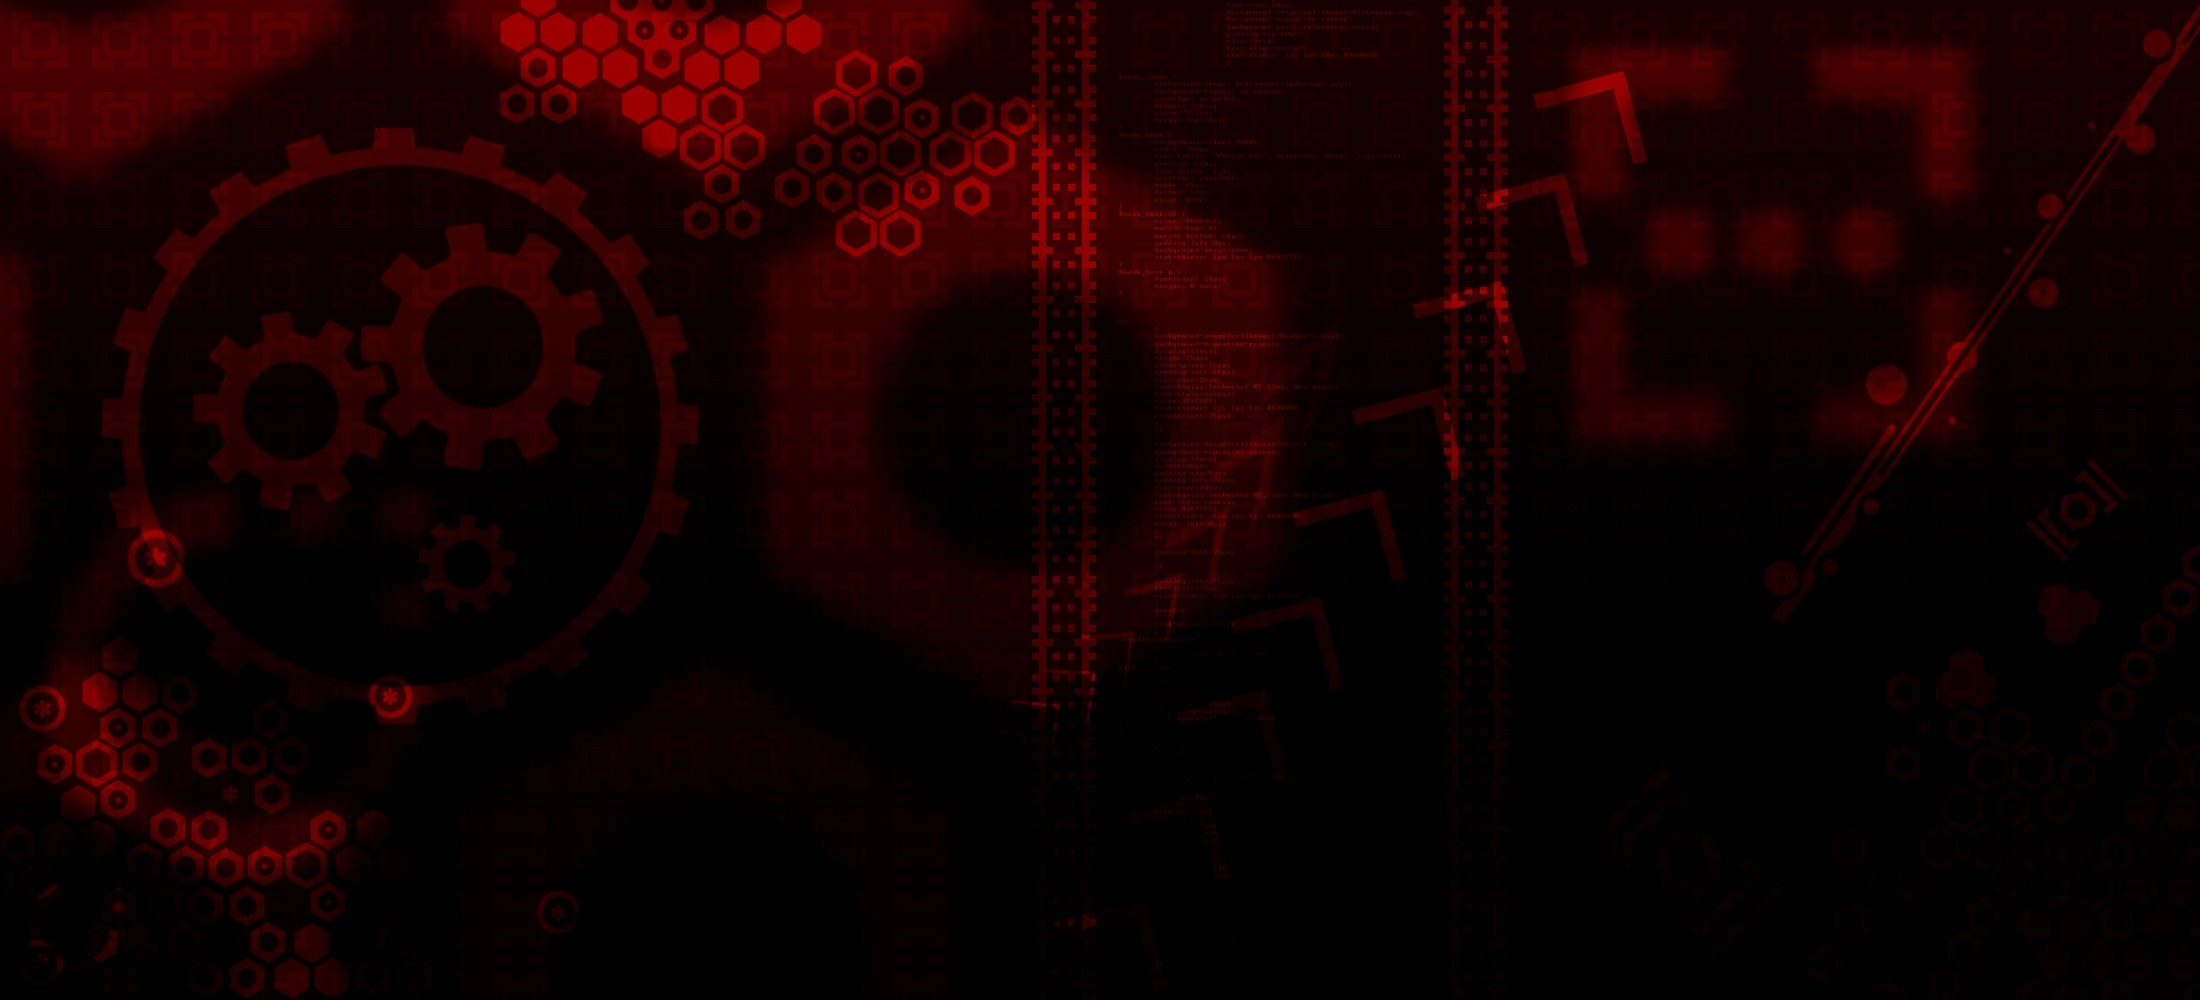
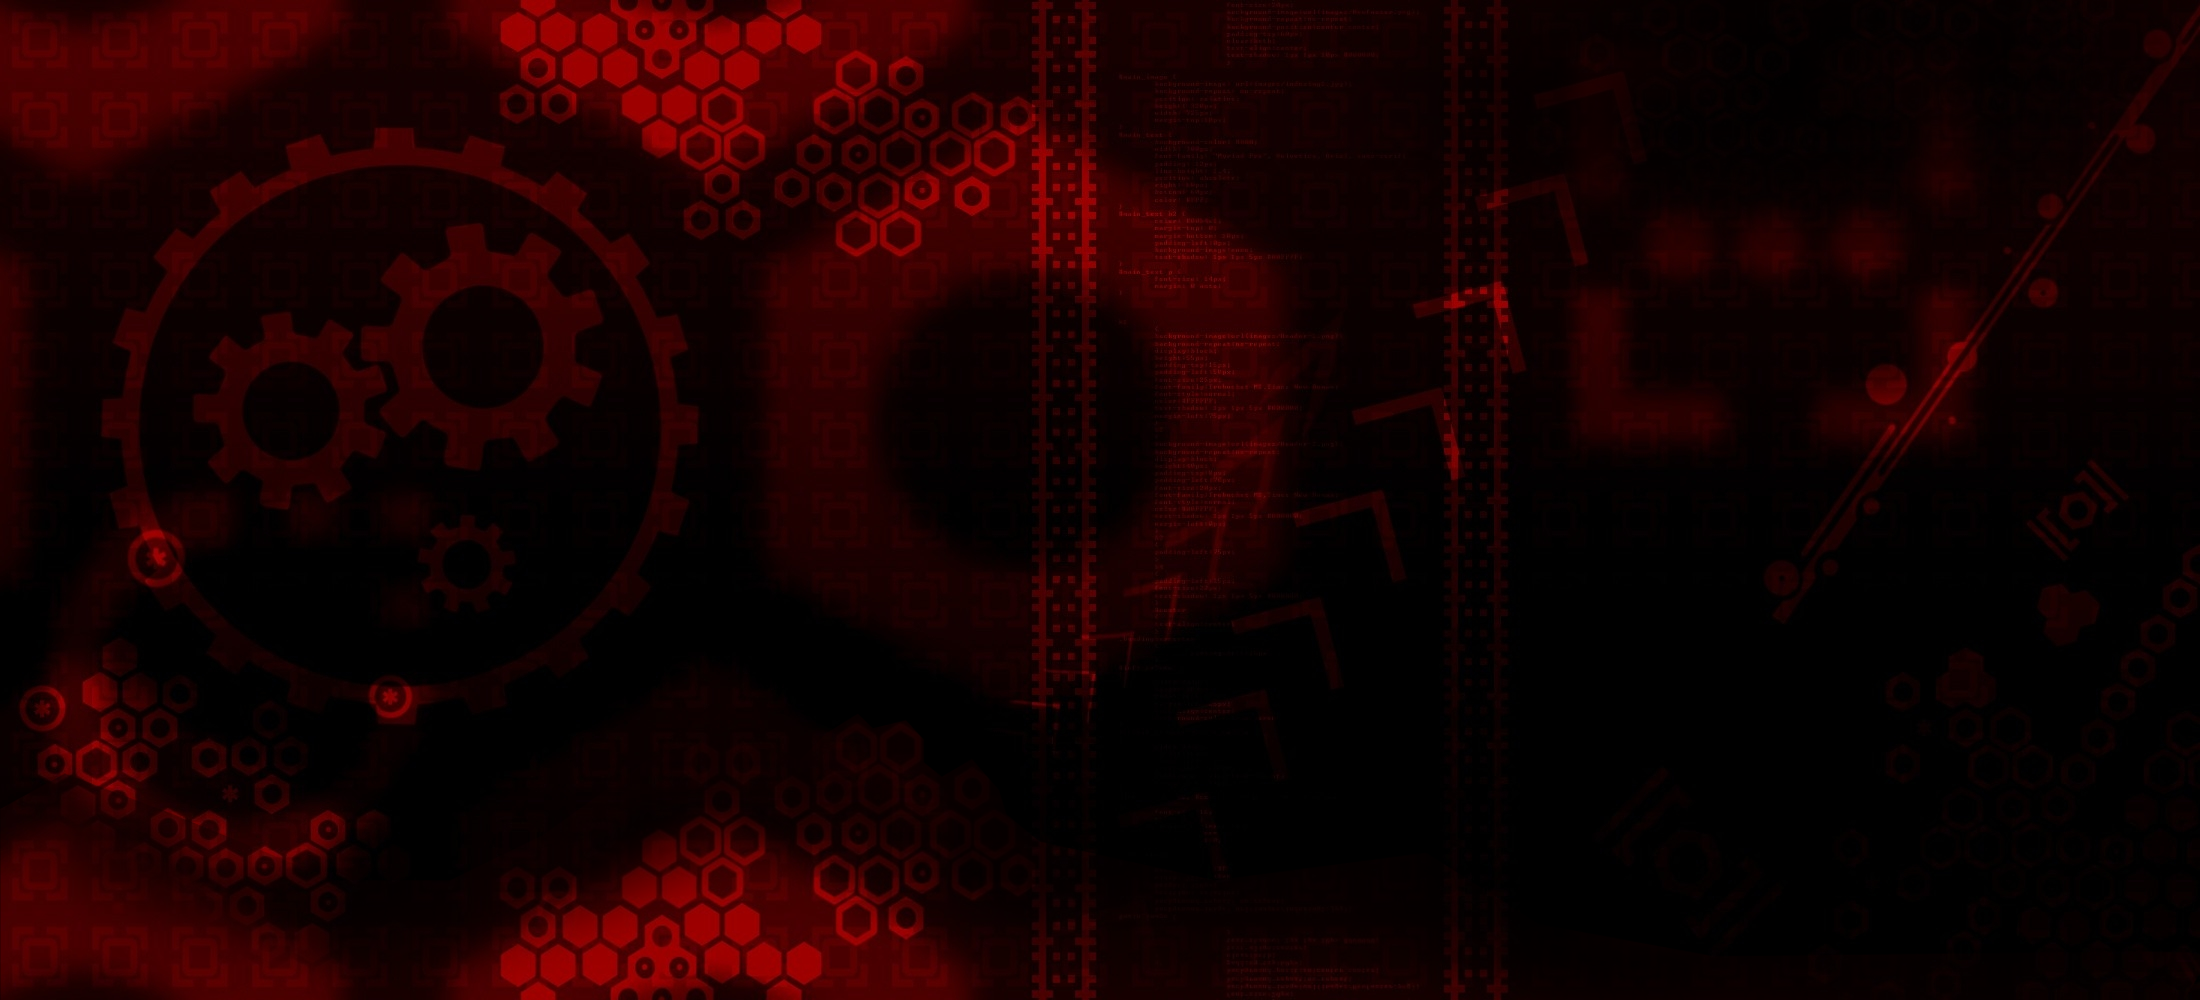
deploy

diff --git a/src/App.js b/src/App.js
@@ -1,6 +1,7 @@
 import React, { useState, useEffect, useRef } from 'react';
 import './App.css';
 import * as faceapi from 'face-api.js';
+import background from './cover/back.png';
 
 import { Player } from './components/player/Player';
 
@@ -90,10 +91,8 @@ function App() {
 
       var selectedmood;
       if (mood_return[0] !== 'undefined') {
-
-      
-      window.temp = mood_return[0];
-    }
+        window.temp = mood_return[0];
+      }
     }, 5000);
   };
 
@@ -104,7 +103,6 @@ function App() {
     moodDetectionSet = true;
   };
   const clickHadler1 = () => {
-    
     setMoodDetection(false);
     moodDetectionSet = false;
   };
@@ -123,30 +121,34 @@ function App() {
         >
           Click here!
         </button>
-        <h1 color='white' className="headerName">Catch my mood !!</h1>
+        <h1 color="white" className="headerName">
+          Catch my mood !!
+        </h1>
       </>
     ) : (
       <>
-      <card className="card">
-        <button
-          style={{
-            background: '#FC0400',
-            width: 200,
-            height: 60,
-            color: 'white',
-          }}
-          onClick={clickHadler1}
-        >
-          Click here!
-        </button>
-        <h1 color='white' className="headerName">Catch Again my mood !!</h1>
-        <Player emotion={expressioncatch} />
+        <card className="card">
+          <button
+            style={{
+              background: '#FC0400',
+              width: 200,
+              height: 60,
+              color: 'white',
+            }}
+            onClick={clickHadler1}
+          >
+            Click here!
+          </button>
+          <h1 color="white" className="headerName">
+            Catch Again my mood !!
+          </h1>
+          <Player emotion={expressioncatch} />
         </card>
       </>
     );
   };
   return (
-    <div className="App">
+    <div className="App" style={{ backgroundImage: `url(${background})` }}>
       <span>{initaiallizing ? 'initaiallizing' : 'ready'}</span>
       <div className="display-flex justify-content-center">
         <video

diff --git a/src/App.css b/src/App.css
@@ -1,6 +1,7 @@
 .App {
   text-align: center;
-  background-image: url("C:\Users\Shan\Desktop\project\New folder\datamining\src\cover\back.png");
+
+  background-repeat: repeat;
 }
 .card {
   background-color: cornsilk;
